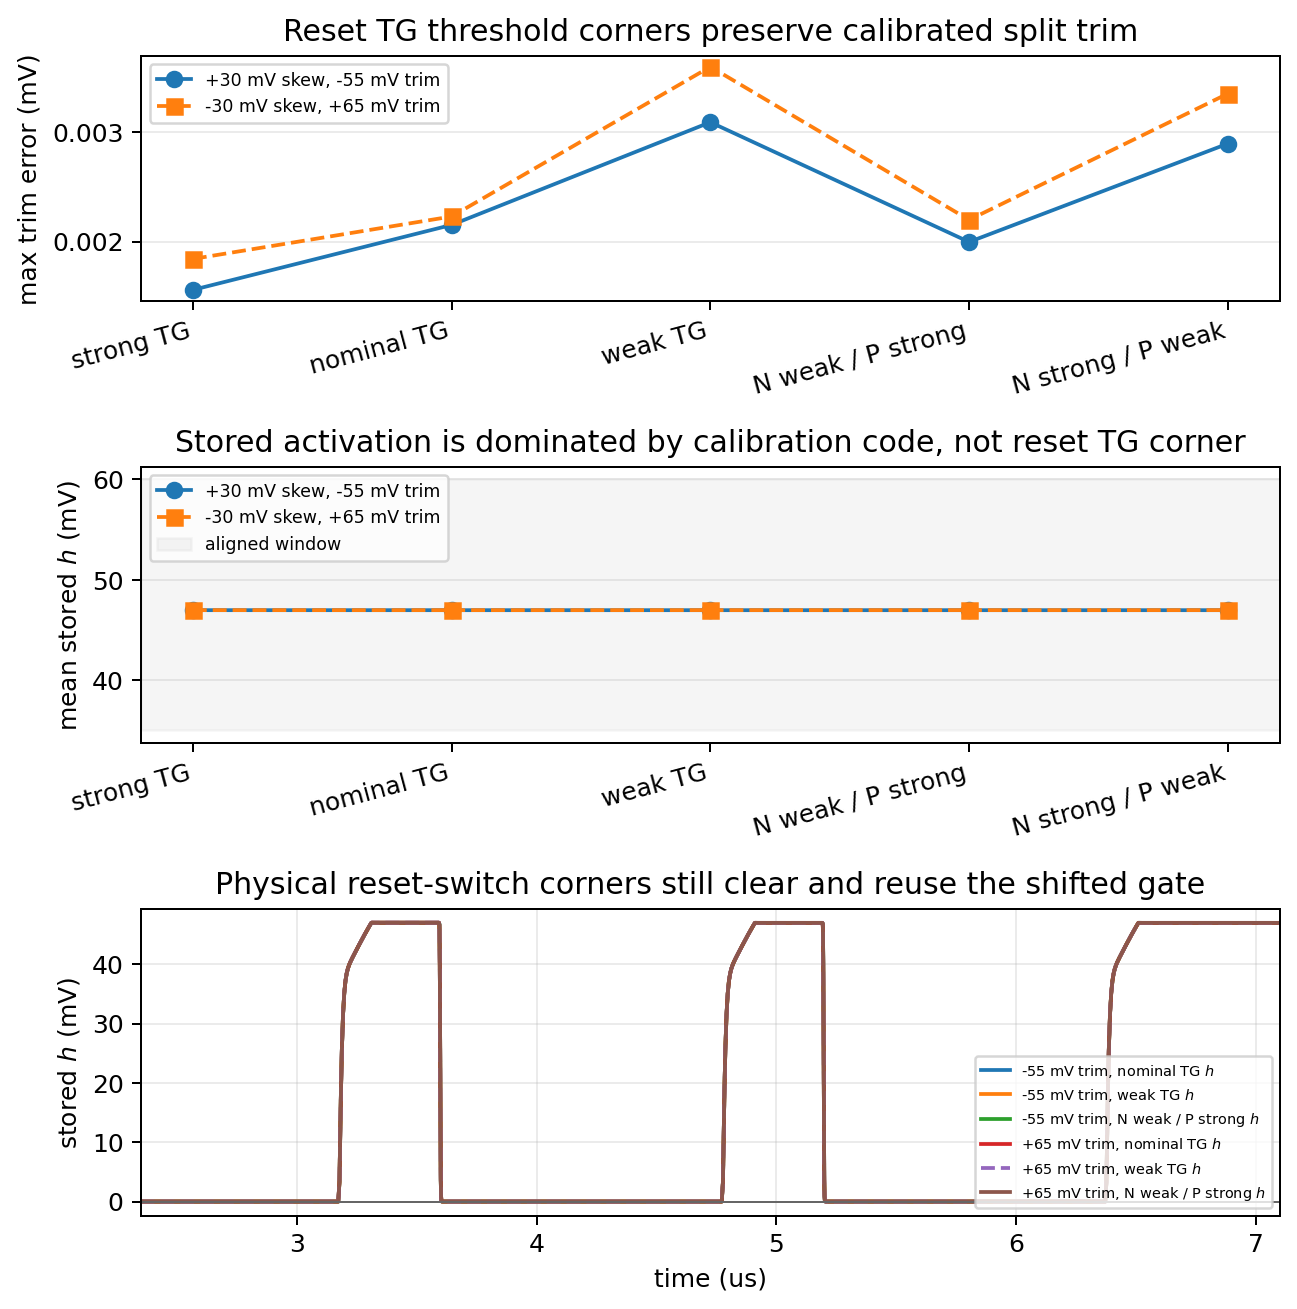
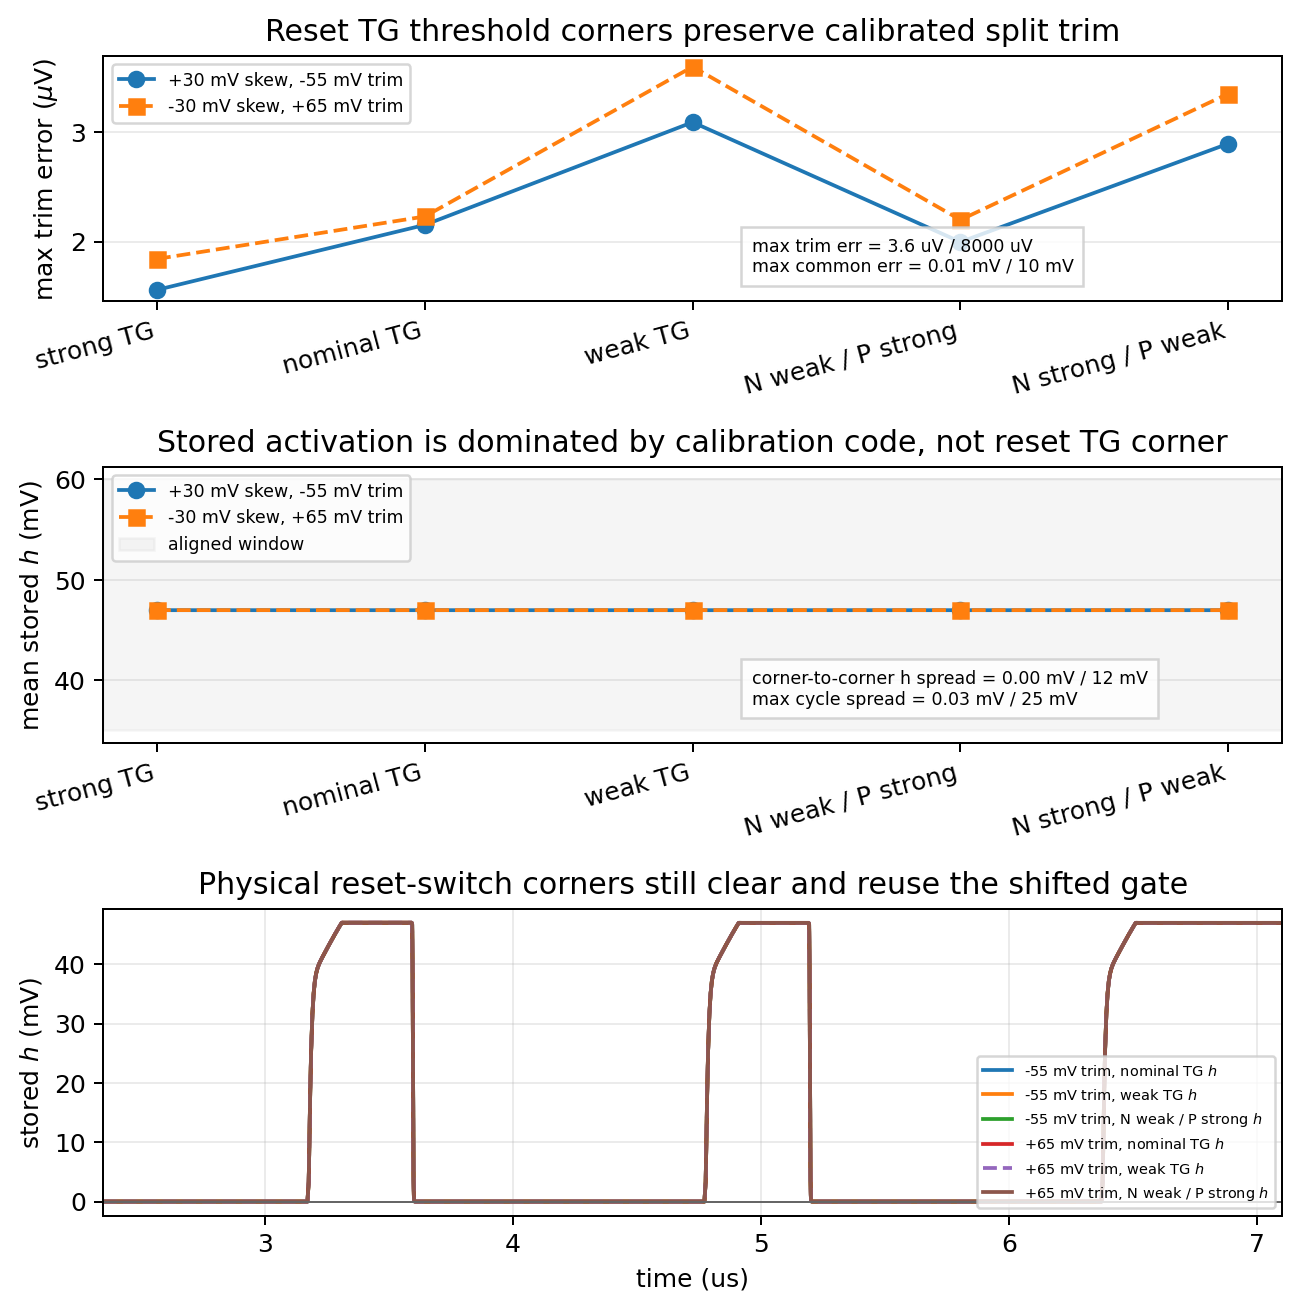
Clarify reset switch corner margins

diff --git a/spice/run_mos_cell_characterization.py b/spice/run_mos_cell_characterization.py
@@ -14627,15 +14627,26 @@ quit
         marker = "o-" if branch_idx == 0 else "s--"
         shift_reset_corner_axes[0].plot(
             reset_corner_x,
-            1e3 * shift_reset_corner_trim_error[branch_idx],
+            1e6 * shift_reset_corner_trim_error[branch_idx],
             marker,
             label=branch_label,
         )
     shift_reset_corner_axes[0].set_xticks(reset_corner_x)
     shift_reset_corner_axes[0].set_xticklabels(reset_corner_labels, rotation=15, ha="right")
-    shift_reset_corner_axes[0].set_ylabel("max trim error (mV)")
+    shift_reset_corner_axes[0].set_ylabel("max trim error ($\\mu$V)")
     shift_reset_corner_axes[0].set_title("Reset TG threshold corners preserve calibrated split trim")
     shift_reset_corner_axes[0].grid(True, axis="y", alpha=0.25)
+    shift_reset_corner_axes[0].text(
+        0.55,
+        0.12,
+        "max trim err = "
+        f"{1e6 * np.max(shift_reset_corner_trim_error):.1f} uV / 8000 uV\n"
+        "max common err = "
+        f"{1e3 * np.max(shift_reset_corner_common_error):.2f} mV / 10 mV",
+        transform=shift_reset_corner_axes[0].transAxes,
+        fontsize="x-small",
+        bbox={"facecolor": "white", "alpha": 0.82, "edgecolor": "0.8"},
+    )
     shift_reset_corner_axes[0].legend(loc="upper left", fontsize="x-small")
     for branch_idx, (_branch_name, branch_label, _nfp, _nfm, _trim) in enumerate(shift_reset_branch_specs):
         marker = "o-" if branch_idx == 0 else "s--"
@@ -14651,6 +14662,17 @@ quit
     shift_reset_corner_axes[1].set_ylabel("mean stored $h$ (mV)")
     shift_reset_corner_axes[1].set_title("Stored activation is dominated by calibration code, not reset TG corner")
     shift_reset_corner_axes[1].grid(True, axis="y", alpha=0.25)
+    shift_reset_corner_axes[1].text(
+        0.55,
+        0.14,
+        "corner-to-corner h spread = "
+        f"{1e3 * np.max(np.ptp(shift_reset_corner_h_mean, axis=1)):.2f} mV / 12 mV\n"
+        "max cycle spread = "
+        f"{1e3 * np.max(shift_reset_corner_h_spread):.2f} mV / 25 mV",
+        transform=shift_reset_corner_axes[1].transAxes,
+        fontsize="x-small",
+        bbox={"facecolor": "white", "alpha": 0.82, "edgecolor": "0.8"},
+    )
     shift_reset_corner_axes[1].legend(loc="upper left", fontsize="x-small")
     for branch_label, corner_label, rst, load, store in shift_reset_corner_traces:
         if ("+30" in branch_label and corner_label == "nweak_pstrong") or (

diff --git a/engineering_log.md b/engineering_log.md
@@ -2,6 +2,19 @@
 
 ## 2026-05-25
 
+- Fixed the shifted-gate reset-switch-corner plot's unit readability.  The
+  ngspice deck sweeps reset transmission-gate threshold corners and already
+  asserted calibrated split-trim error below \(8\) mV, shifted-gate common
+  error below \(10\) mV, reset residue below \(2\) mV, useful stored
+  activations, and repeated-cycle spread below \(25\) mV.  The rendered
+  trim-error axis was labeled in mV even though the measured errors are only
+  a few microvolts.  The regenerated
+  `mos_hidden_writer_restored_gate_hybrid_update_forward_guard_forward_pair_96u_shifted_gate_reset_switch_corner_ngspice`
+  plot now uses a \(\mu\)V trim-error axis and labels the measured maxima:
+  \(3.6\,\mu\)V trim error versus an \(8000\,\mu\)V budget, \(0.01\) mV
+  common error versus a \(10\) mV budget, corner-to-corner stored-activation
+  spread below the displayed \(0.01\) mV resolution, and max repeated-cycle
+  spread \(0.03\) mV.
 - Family-completed the shifted-gate reset-reference decoupling plot.  The
   ngspice deck models the first reset from a \(100\)k trim source with local
   reservoir capacitance and already asserted monotonic trim-error improvement,
